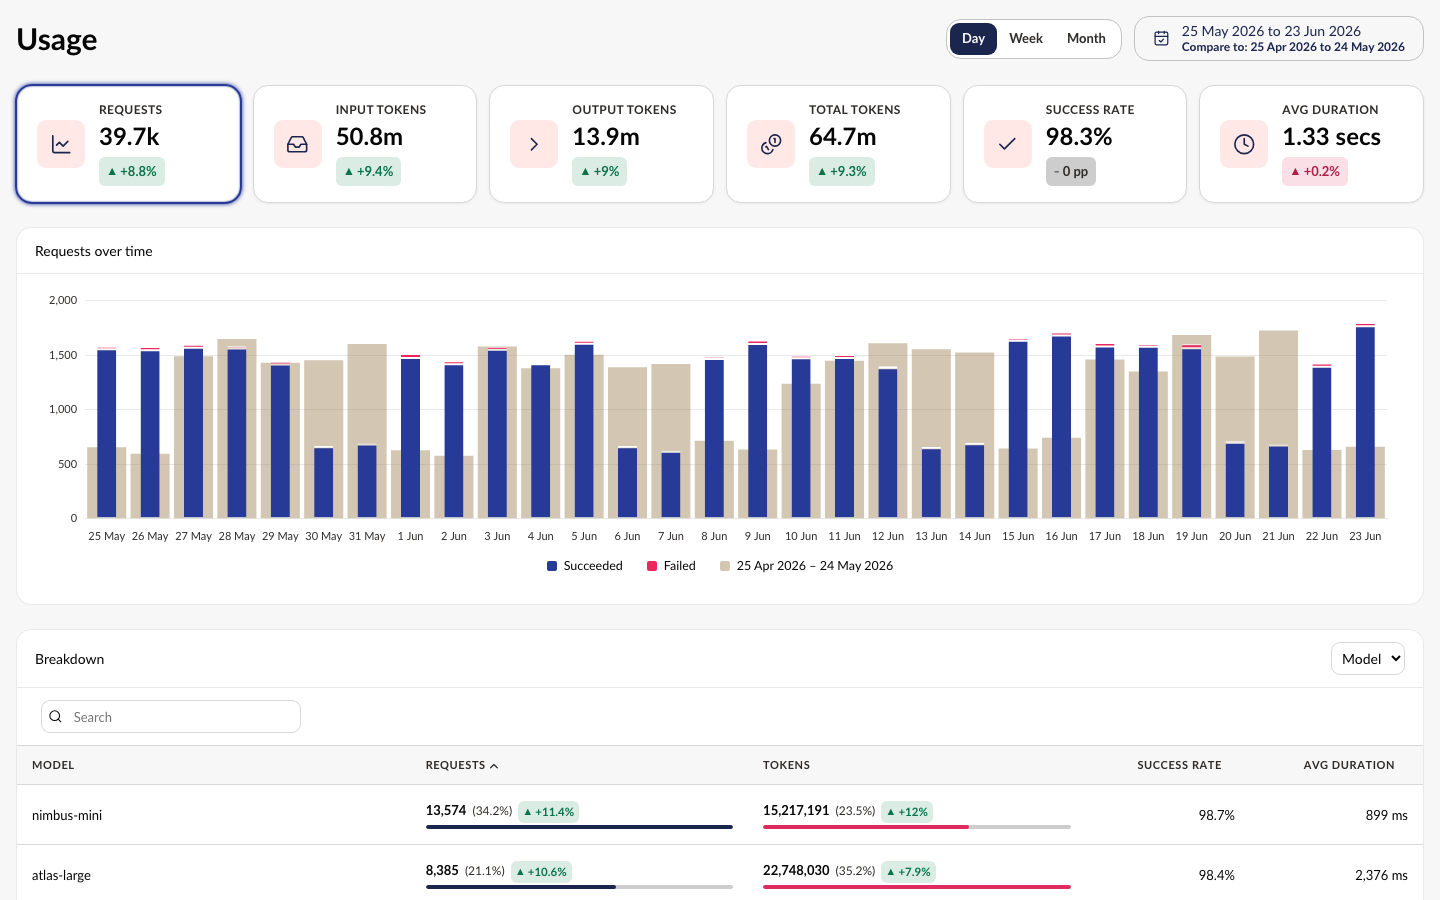
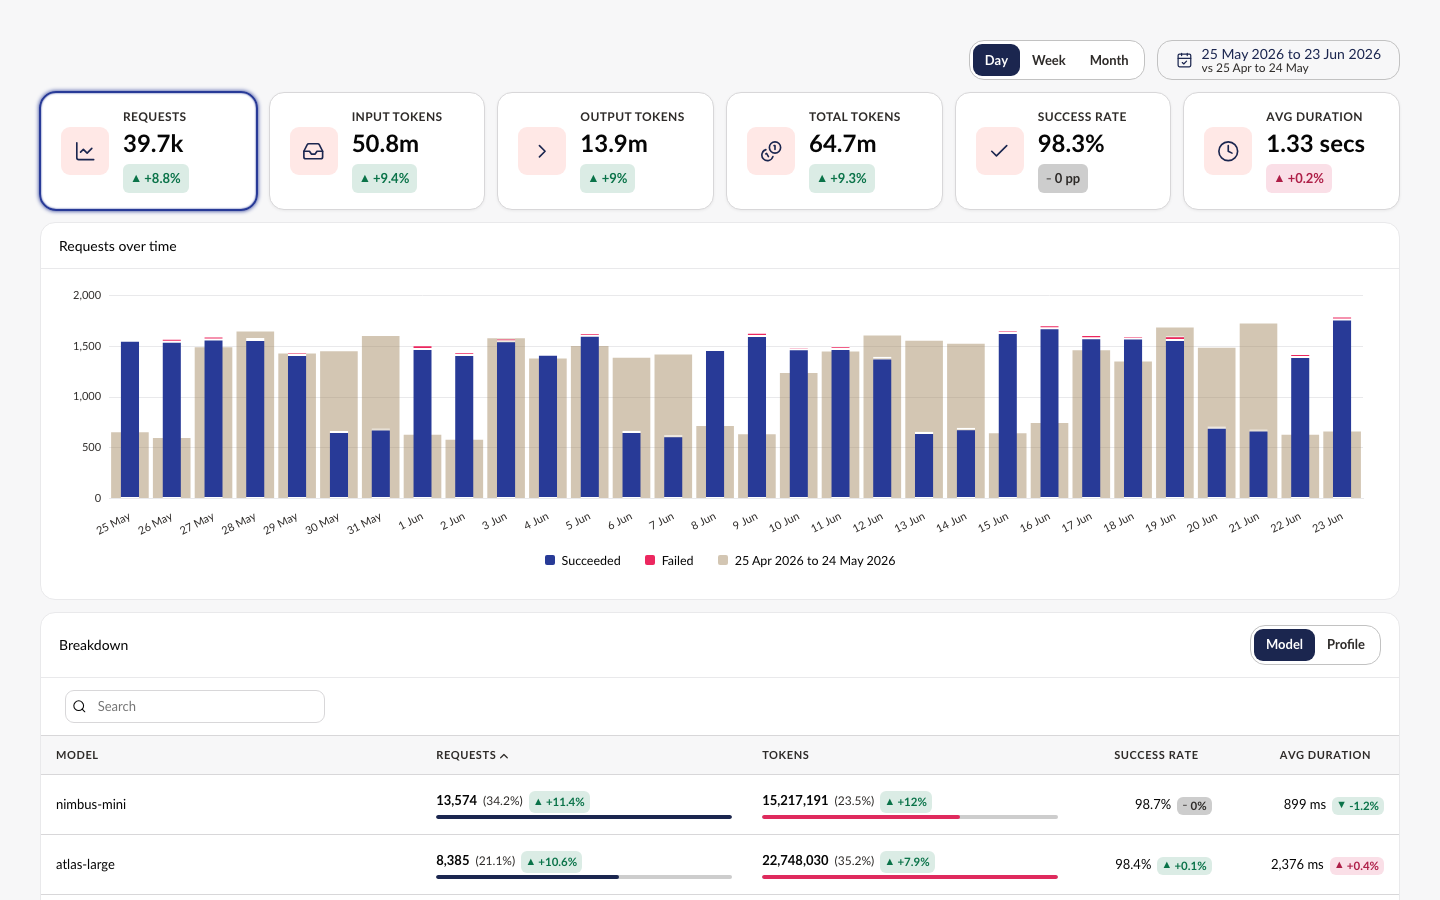
docs(storybook): page examples use CMS dashboard header styles (T41)
No page h1 (the dashboard tab names the screen); controls sit in an actions
row; layout-1 host padding and size-4 gaps, as the CMS redirect and health
check dashboards do.

Claude-Session: https://claude.ai/code/session_01V2t3cmixbeHr2w2dcfhqbt

diff --git a/src/Umbraco.Analytics.UI/Client/src/examples/pages/commerce/commerce-analytics-page.element.ts b/src/Umbraco.Analytics.UI/Client/src/examples/pages/commerce/commerce-analytics-page.element.ts
@@ -84,7 +84,7 @@ const discountColumns: UaxTableColumn[] = [
 ];
 
 /**
- * Commerce > Analytics: a page header with the date range, a row of KPI tiles that pick the metric of one chart,
+ * Commerce > Analytics: an actions row with the date range, a row of KPI tiles that pick the metric of one chart,
  * then top products, popular discounts and top buyers tables. The page owns the state, asks the API for data when
  * it changes, and hands the answer to the parts.
  */
@@ -192,85 +192,69 @@ export class ExampleCommerceAnalyticsPageElement extends UmbLitElement {
         const metric = metrics.find((m) => m.id === this._metric)!;
         const compare = this._compare;
         return html`
-            <div class="page">
-                <header>
-                    <h1>Analytics</h1>
-                    <div class="actions">
-                        <uax-date-range today="2026-06-23" .value=${this._range} .compare=${compare} @change=${this.#onRangeChange}></uax-date-range>
-                    </div>
-                </header>
+            <div class="actions">
+                <uax-date-range today="2026-06-23" .value=${this._range} .compare=${compare} @change=${this.#onRangeChange}></uax-date-range>
+            </div>
 
-                <div class="kpis">${metrics.map((m) => this.#renderTile(m))}</div>
+            <div class="kpis">${metrics.map((m) => this.#renderTile(m))}</div>
 
-                <uui-box headline=${metric.label} headline-variant="h2" style="--uui-box-default-padding: 0">
-                    <uax-time-series-chart
-                        kind="line"
-                        .series=${this.#series(this._data?.days, this._metric)}
-                        .compareSeries=${this.#series(this._compareData?.days, this._metric)}
-                        .range=${this._range}
-                        .compare=${this._compare}
-                        .compareLabel=${compare ? uaxFormatDateRange(this.localize, compare) : undefined}
-                        .valueFormat=${metric.format}
-                        ?loading=${this._loading}></uax-time-series-chart>
-                </uui-box>
+            <uui-box headline=${metric.label} headline-variant="h2" style="--uui-box-default-padding: 0">
+                <uax-time-series-chart
+                    kind="line"
+                    .series=${this.#series(this._data?.days, this._metric)}
+                    .compareSeries=${this.#series(this._compareData?.days, this._metric)}
+                    .range=${this._range}
+                    .compare=${this._compare}
+                    .compareLabel=${compare ? uaxFormatDateRange(this.localize, compare) : undefined}
+                    .valueFormat=${metric.format}
+                    ?loading=${this._loading}></uax-time-series-chart>
+            </uui-box>
 
-                <div class="tables">
-                    <uui-box headline="Top products" headline-variant="h2" style="--uui-box-default-padding: 0">
-                        <uax-data-table
-                            row-key="sku"
-                            .columns=${productColumns}
-                            .rows=${this._data?.products ?? []}
-                            .compareRows=${this._compareData?.products ?? []}
-                            ?loading=${this._loading}>
-                            <div slot="toolbar"><uax-table-search></uax-table-search></div>
-                        </uax-data-table>
-                    </uui-box>
-
-                    <uui-box headline="Popular discounts" headline-variant="h2" style="--uui-box-default-padding: 0">
-                        <uax-data-table
-                            row-key="code"
-                            .columns=${discountColumns}
-                            .rows=${this._data?.discounts ?? []}
-                            .compareRows=${this._compareData?.discounts ?? []}
-                            ?loading=${this._loading}></uax-data-table>
-                    </uui-box>
-                </div>
-
-                <uui-box headline="Top buyers" headline-variant="h2" style="--uui-box-default-padding: 0">
+            <div class="tables">
+                <uui-box headline="Top products" headline-variant="h2" style="--uui-box-default-padding: 0">
                     <uax-data-table
-                        ${ref(this.#buyers.attach)}
-                        row-key="email"
-                        .columns=${buyerColumns}>
+                        row-key="sku"
+                        .columns=${productColumns}
+                        .rows=${this._data?.products ?? []}
+                        .compareRows=${this._compareData?.products ?? []}
+                        ?loading=${this._loading}>
                         <div slot="toolbar"><uax-table-search></uax-table-search></div>
                     </uax-data-table>
                 </uui-box>
+
+                <uui-box headline="Popular discounts" headline-variant="h2" style="--uui-box-default-padding: 0">
+                    <uax-data-table
+                        row-key="code"
+                        .columns=${discountColumns}
+                        .rows=${this._data?.discounts ?? []}
+                        .compareRows=${this._compareData?.discounts ?? []}
+                        ?loading=${this._loading}></uax-data-table>
+                </uui-box>
             </div>
+
+            <uui-box headline="Top buyers" headline-variant="h2" style="--uui-box-default-padding: 0">
+                <uax-data-table
+                    ${ref(this.#buyers.attach)}
+                    row-key="email"
+                    .columns=${buyerColumns}>
+                    <div slot="toolbar"><uax-table-search></uax-table-search></div>
+                </uax-data-table>
+            </uui-box>
         `;
     }
 
     static override styles = css`
         :host {
-            display: block;
-        }
-        .page {
             display: flex;
             flex-direction: column;
-            gap: var(--uui-size-layout-1);
-        }
-        header {
-            display: flex;
-            align-items: center;
-            justify-content: space-between;
-            gap: var(--uui-size-space-4);
-        }
-        h1 {
-            margin: 0;
-            font-size: var(--uui-type-h3-size);
+            gap: var(--uui-size-4);
+            padding: var(--uui-size-layout-1);
         }
         .actions {
             display: flex;
             align-items: center;
-            gap: var(--uui-size-space-4);
+            justify-content: flex-end;
+            gap: var(--uui-size-4);
         }
         .kpis {
             display: grid;
@@ -280,7 +264,7 @@ export class ExampleCommerceAnalyticsPageElement extends UmbLitElement {
         .tables {
             display: grid;
             grid-template-columns: repeat(auto-fit, minmax(480px, 1fr));
-            gap: var(--uui-size-layout-1);
+            gap: var(--uui-size-4);
             align-items: start;
         }
     `;

diff --git a/src/Umbraco.Analytics.UI/Client/src/examples/pages/ai/ai-usage-page.element.ts b/src/Umbraco.Analytics.UI/Client/src/examples/pages/ai/ai-usage-page.element.ts
@@ -235,70 +235,54 @@ export class ExampleAiUsagePageElement extends UmbLitElement {
     override render() {
         const usage = this._usage;
         return html`
-            <div class="page">
-                <header>
-                    <h1>Usage</h1>
-                    <div class="actions">
-                        <uax-group-by .value=${this._groupBy} @change=${this.#onGroupBy}></uax-group-by>
-                        <uax-date-range today="2026-06-23" .value=${this._range} .compare=${this._compare} @change=${this.#onDateRange}></uax-date-range>
-                    </div>
-                </header>
-
-                ${this.#tiles()}
-
-                <uui-box headline="${metricLabels[this._metric]} over time" headline-variant="h2" style="--uui-box-default-padding: 0">
-                    <uax-time-series-chart
-                        kind="stacked-bar"
-                        .series=${toSeries(this._metric, usage?.buckets)}
-                        .compareSeries=${toSeries(this._metric, usage?.compareBuckets)}
-                        .range=${this._range}
-                        .compare=${this._compare}
-                        .compareLabel=${this._compare ? uaxFormatDateRange(this.localize, this._compare) : undefined}
-                        .groupBy=${this._groupBy}
-                        ?loading=${this._usageLoading}></uax-time-series-chart>
-                </uui-box>
-
-                <uui-box headline="Breakdown" headline-variant="h2" style="--uui-box-default-padding: 0">
-                    <uax-segmented
-                        slot="header-actions"
-                        label="Break down by"
-                        .value=${this._by}
-                        .options=${breakdownOptions}
-                        @change=${this.#onBreakdownBy}></uax-segmented>
-                    <uax-data-table
-                        ${ref(this.#breakdown.attach)}
-                        row-key="name"
-                        .columns=${tableColumns(this._by)}>
-                        <div slot="toolbar"><uax-table-search></uax-table-search></div>
-                    </uax-data-table>
-                </uui-box>
+            <div class="actions">
+                <uax-group-by .value=${this._groupBy} @change=${this.#onGroupBy}></uax-group-by>
+                <uax-date-range today="2026-06-23" .value=${this._range} .compare=${this._compare} @change=${this.#onDateRange}></uax-date-range>
             </div>
+
+            ${this.#tiles()}
+
+            <uui-box headline="${metricLabels[this._metric]} over time" headline-variant="h2" style="--uui-box-default-padding: 0">
+                <uax-time-series-chart
+                    kind="stacked-bar"
+                    .series=${toSeries(this._metric, usage?.buckets)}
+                    .compareSeries=${toSeries(this._metric, usage?.compareBuckets)}
+                    .range=${this._range}
+                    .compare=${this._compare}
+                    .compareLabel=${this._compare ? uaxFormatDateRange(this.localize, this._compare) : undefined}
+                    .groupBy=${this._groupBy}
+                    ?loading=${this._usageLoading}></uax-time-series-chart>
+            </uui-box>
+
+            <uui-box headline="Breakdown" headline-variant="h2" style="--uui-box-default-padding: 0">
+                <uax-segmented
+                    slot="header-actions"
+                    label="Break down by"
+                    .value=${this._by}
+                    .options=${breakdownOptions}
+                    @change=${this.#onBreakdownBy}></uax-segmented>
+                <uax-data-table
+                    ${ref(this.#breakdown.attach)}
+                    row-key="name"
+                    .columns=${tableColumns(this._by)}>
+                    <div slot="toolbar"><uax-table-search></uax-table-search></div>
+                </uax-data-table>
+            </uui-box>
         `;
     }
 
     static override styles = css`
         :host {
-            display: block;
-        }
-        .page {
             display: flex;
             flex-direction: column;
-            gap: var(--uui-size-layout-1);
-        }
-        header {
-            display: flex;
-            align-items: center;
-            justify-content: space-between;
-            gap: var(--uui-size-space-4);
-        }
-        h1 {
-            margin: 0;
-            font-size: var(--uui-type-h3-size);
+            gap: var(--uui-size-4);
+            padding: var(--uui-size-layout-1);
         }
         .actions {
             display: flex;
             align-items: center;
-            gap: var(--uui-size-space-4);
+            justify-content: flex-end;
+            gap: var(--uui-size-4);
         }
         .tiles {
             display: grid;

diff --git a/src/Umbraco.Analytics.UI/Client/src/examples/pages/engage/engage-analytics-page.element.ts b/src/Umbraco.Analytics.UI/Client/src/examples/pages/engage/engage-analytics-page.element.ts
@@ -46,7 +46,7 @@ const percentChange = (current: number, previous?: number) =>
     previous ? ((current - previous) / previous) * 100 : undefined;
 
 /**
- * Engage > Analytics > Pageviews (`view="pageviews"`) or Visitors (`view="visitors"`): a page header with the group-by
+ * Engage > Analytics > Pageviews (`view="pageviews"`) or Visitors (`view="visitors"`): an actions row with the group-by
  * and date range, then one pane where a chart flows into an edge-to-edge table. The page owns the state (range,
  * compare, group by, sort, page, search), asks the API for data when it changes, and hands the answer to the parts.
  */
@@ -189,65 +189,49 @@ export class ExampleEngageAnalyticsPageElement extends UmbLitElement {
     override render() {
         const visitors = this.view === "visitors";
         return html`
-            <div class="page">
-                <header>
-                    <h1>${visitors ? "Visitors" : "Pageviews"}</h1>
-                    <div class="actions">
-                        <uax-group-by .value=${this._groupBy} @change=${this.#onGroupByChange}></uax-group-by>
-                        <uax-date-range
-                            .value=${this._range}
-                            .compare=${this._compare}
-                            today="2026-06-29"
-                            @change=${this.#onDateRangeChange}></uax-date-range>
-                    </div>
-                </header>
-
-                <uui-box
-                    headline=${visitors ? "New and returning visitors over time" : "Pageviews over time"}
-                    headline-variant="h2"
-                    style="--uui-box-default-padding: 0">
-                    <uax-time-series-chart
-                        .kind=${visitors ? "stacked-bar" : "area"}
-                        .series=${this._series}
-                        .compareSeries=${this._compareSeries}
-                        .range=${this._range}
-                        .compare=${this._compare}
-                        .compareLabel=${this._compare ? uaxFormatDateRange(this.localize, this._compare) : undefined}
-                        .markers=${markers}
-                        .groupBy=${this._groupBy}
-                        ?loading=${this._chartLoading}
-                        ?error=${this._chartError}
-                        retryable
-                        @retry=${() => this.#loadChart()}></uax-time-series-chart>
-                    ${this.#renderTable()}
-                </uui-box>
+            <div class="actions">
+                <uax-group-by .value=${this._groupBy} @change=${this.#onGroupByChange}></uax-group-by>
+                <uax-date-range
+                    .value=${this._range}
+                    .compare=${this._compare}
+                    today="2026-06-29"
+                    @change=${this.#onDateRangeChange}></uax-date-range>
             </div>
+
+            <uui-box
+                headline=${visitors ? "New and returning visitors over time" : "Pageviews over time"}
+                headline-variant="h2"
+                style="--uui-box-default-padding: 0">
+                <uax-time-series-chart
+                    .kind=${visitors ? "stacked-bar" : "area"}
+                    .series=${this._series}
+                    .compareSeries=${this._compareSeries}
+                    .range=${this._range}
+                    .compare=${this._compare}
+                    .compareLabel=${this._compare ? uaxFormatDateRange(this.localize, this._compare) : undefined}
+                    .markers=${markers}
+                    .groupBy=${this._groupBy}
+                    ?loading=${this._chartLoading}
+                    ?error=${this._chartError}
+                    retryable
+                    @retry=${() => this.#loadChart()}></uax-time-series-chart>
+                ${this.#renderTable()}
+            </uui-box>
         `;
     }
 
     static override styles = css`
         :host {
-            display: block;
-        }
-        .page {
             display: flex;
             flex-direction: column;
-            gap: var(--uui-size-layout-1);
-        }
-        header {
-            display: flex;
-            align-items: center;
-            justify-content: space-between;
-            gap: var(--uui-size-space-4);
-        }
-        h1 {
-            margin: 0;
-            font-size: var(--uui-type-h3-size);
+            gap: var(--uui-size-4);
+            padding: var(--uui-size-layout-1);
         }
         .actions {
             display: flex;
             align-items: center;
-            gap: var(--uui-size-space-4);
+            justify-content: flex-end;
+            gap: var(--uui-size-4);
         }
         .total {
             display: flex;

diff --git a/src/Umbraco.Analytics.UI/Client/src/examples/pages/engage/engage-analytics-page.story.ts b/src/Umbraco.Analytics.UI/Client/src/examples/pages/engage/engage-analytics-page.story.ts
@@ -41,8 +41,8 @@ const render = (view: "pageviews" | "visitors", latency?: number, failing = fals
 `;
 
 /**
- * Engage > Analytics > Pageviews, rebuilt from this package: group by and date range (with compare) in the page
- * header, an area chart with compare and markers flowing into an edge-to-edge table with share columns, compare badges,
+ * Engage > Analytics > Pageviews, rebuilt from this package: group by and date range (with compare) in an actions row
+ * at the top, an area chart with compare and markers flowing into an edge-to-edge table with share columns, compare badges,
  * search, a total and paging. Change the group by or the dates and the chart reloads; sort, page and search load the
  * table's rows, as a server would. The data is made up. The docs panel shows the page element's own code.
  */

diff --git a/src/Umbraco.Analytics.UI/Client/src/examples/pages/ai/ai-usage-page.story.ts b/src/Umbraco.Analytics.UI/Client/src/examples/pages/ai/ai-usage-page.story.ts
@@ -38,8 +38,8 @@ const render = (latency?: number) => html`
 `;
 
 /**
- * Umbraco AI's Usage dashboard rebuilt from this package: group by and the date range (with compare) in the page
- * header, six KPI tiles with change badges, a stacked usage chart, and a breakdown table by model or profile.
+ * Umbraco AI's Usage dashboard rebuilt from this package: group by and the date range (with compare) in an actions row
+ * at the top, six KPI tiles with change badges, a stacked usage chart, and a breakdown table by model or profile.
  * Everything is wired by the page, which holds the state.
  *
  * - Press a tile (requests, input, output or total tokens) and the chart plots that metric. Success rate and

diff --git a/src/Umbraco.Analytics.UI/Client/src/examples/pages/commerce/commerce-analytics-page.story.ts b/src/Umbraco.Analytics.UI/Client/src/examples/pages/commerce/commerce-analytics-page.story.ts
@@ -39,7 +39,7 @@ const render = (latency?: number) => html`
 `;
 
 /**
- * Commerce > Analytics rebuilt from this package: the date range (with compare) in the page header, five KPI tiles
+ * Commerce > Analytics rebuilt from this package: the date range (with compare) in an actions row, five KPI tiles
  * that switch the metric of the revenue chart, then tables. Top products and popular discounts are `client` tables that
  * sort, search and page themselves; top buyers is a `server` table, so the page listens for `sort-change`,
  * `page-change` and `search` and asks for the next page. Change the date range and every part reloads.

diff --git a/docs/plans/analytics-ui-v1/PLAN.md b/docs/plans/analytics-ui-v1/PLAN.md
@@ -175,6 +175,7 @@ Run after whole-feature review round B. Each gets a builder, a review and its ow
 - [x] **T38** - Date range button keeps the same height with compare on, without looking cramped. Show options in Storybook for the user to pick before building.
 - [x] **T39** - The table pager becomes a generic compact pager (internal), and "Show rows" becomes a generic label (e.g. "Per page") under a translation key products can override.
 - [ ] **T40** - Localization audit: every fixed user-facing string (labels, aria-labels, titles, placeholders, sr-only text) goes through a `uaxAnalytics_*` or Umbraco key; a spec fails on new hard-coded text where practical.
+- [x] **T41** - Page examples match CMS dashboard headers (no page h1, actions row, layout-1 padding). User request 30-10-2026.
 
 ## Follow-ups from T22
 
